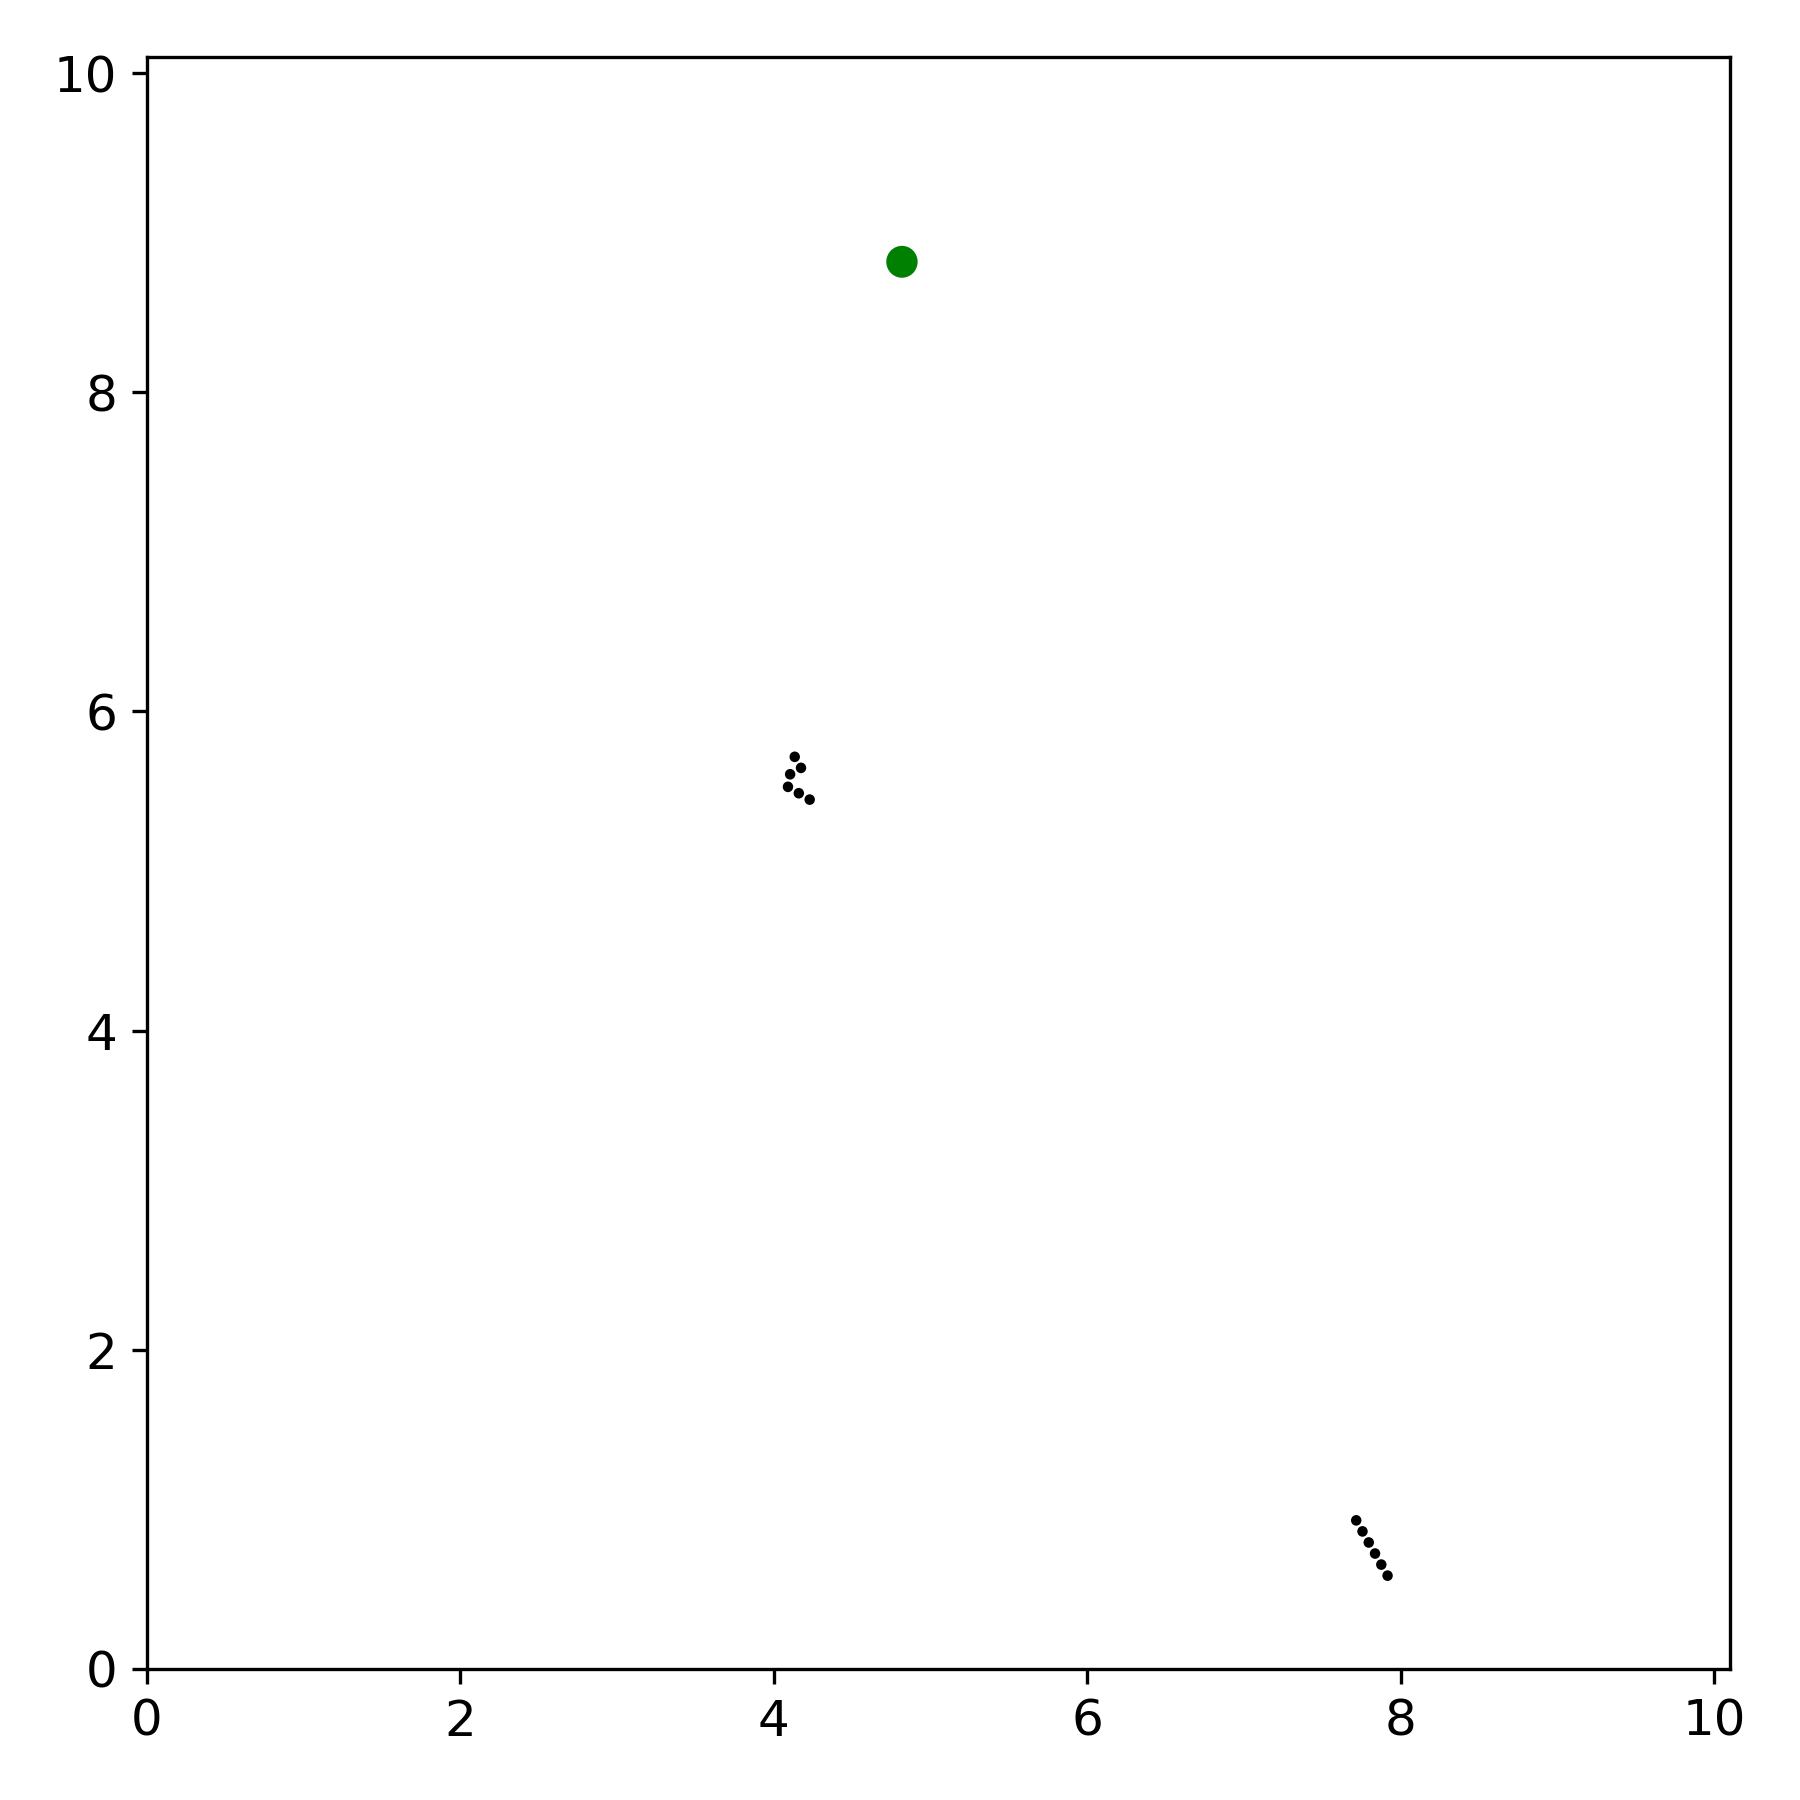
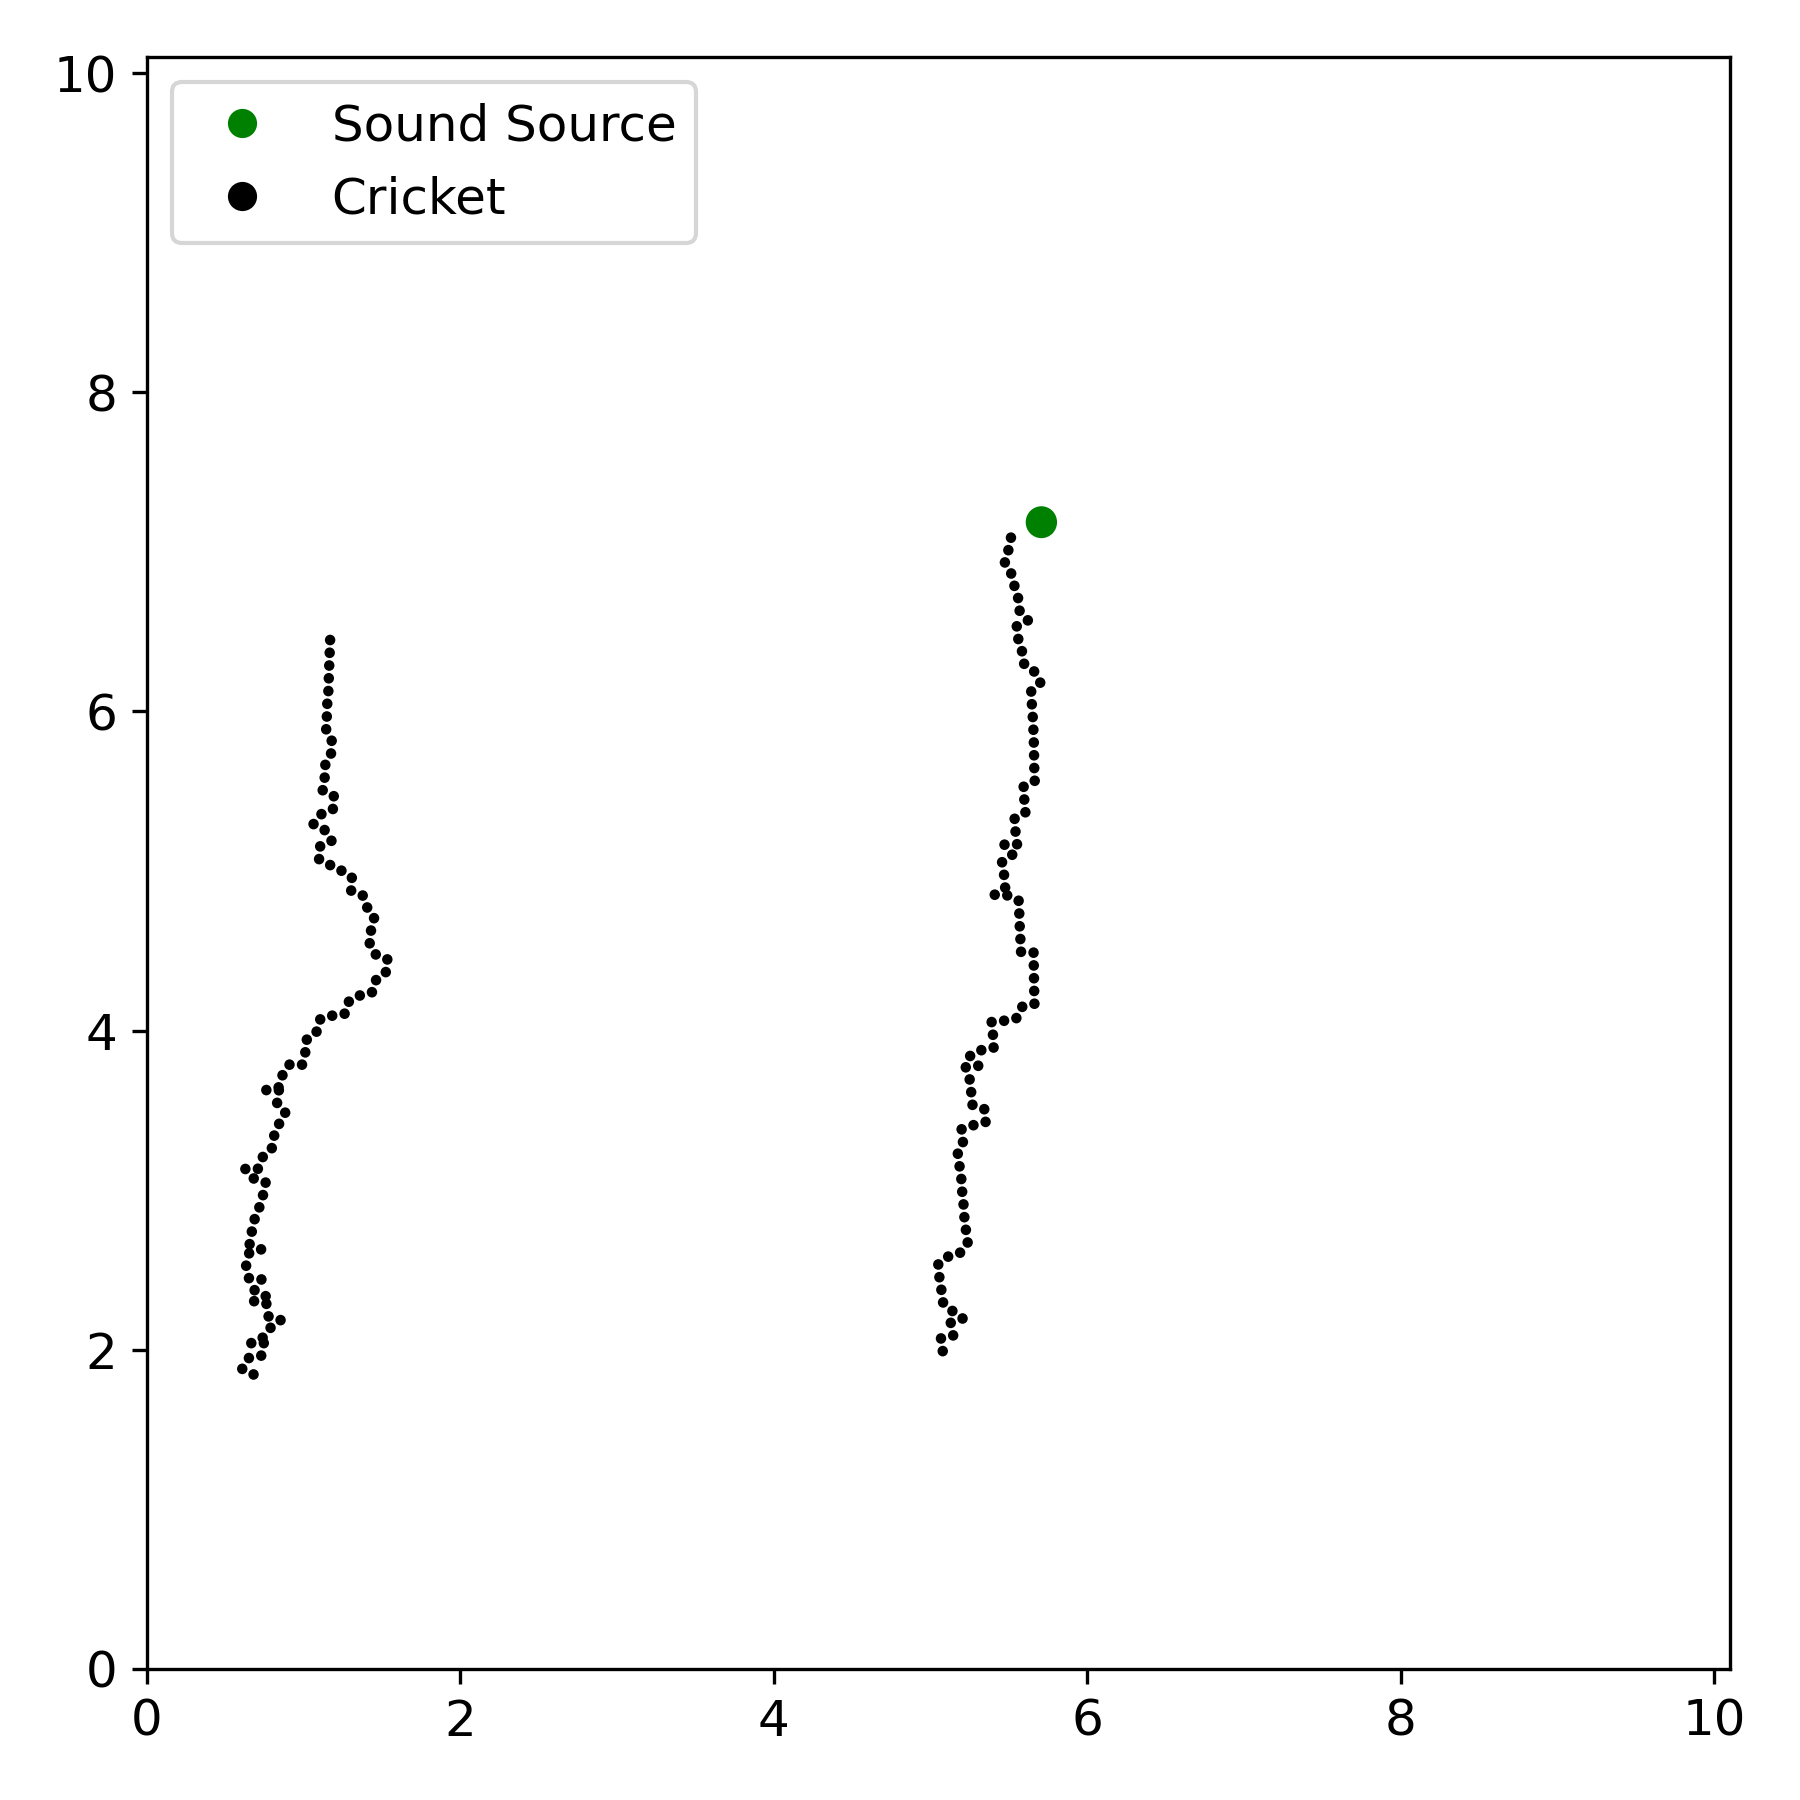
update: add cricket race data

diff --git a/cricket_lib/agent.py b/cricket_lib/agent.py
@@ -76,16 +76,7 @@ class CricketAgent:
         direction = self.sense(self.position, room_dim, sound_sources, signal)
         x_align = self.position[0] + 0.08 * np.cos(direction) * self.speed
         y_align = self.position[1] + 0.08 * np.sin(direction) * self.speed
-
-        if x_align < 0:
-            x_align = 0
-        if y_align < 0:
-            y_align = 0
-        elif y_align > room_dim[1] - 0.1:
-            y_align = room_dim[1]
-
         self.position = [x_align, y_align, 0]
-
         self.check_mate(sound_sources)
 
     def get_position(self) -> list:
@@ -109,18 +100,18 @@ class CricketAgent:
             bool: True if the agent has reached the sound source, False otherwise
         """
 
-        # If the agent is 0.3 units away from any sound source, then the agent has reached the sound source
+        # If the agent is 0.2 units away from any sound source, then the agent has reached the sound source
         for source in sound_sources:
-            distance = math.sqrt(
-                (source[0] - self.position[0]) ** 2
-                + (source[1] - self.position[1]) ** 2
-            )
-            if distance < 0.2:
+        if (source[0]-0.2 < self.position[0] < source[0]+0.2 and source[1]-0.2 < self.position[1] < source[1]+0.2):
                 self.mate = True
                 return self.mate
 
         # Or if the agent has reached the top of the room
-        if self.position[1] >= self.available_space[0]:
+        if self.position[0] < 0.1 or self.position[0] > self.available_space[0] - 0.1:
+            self.mate = True
+            return self.mate
+
+        if self.position[1] < 0.1 or self.position[1] > self.available_space[1] - 0.1:
             self.mate = True
             return self.mate
 

diff --git a/cricket_lib/environment.py b/cricket_lib/environment.py
@@ -65,25 +65,3 @@ class CricketEnvironment:
         """
 
         return [source.get_position() for source in self.sources]
-
-    def check_one_agent_under_source(self) -> bool:
-        """
-        Check if one agent is under the source
-
-        Returns:
-            bool: True if one agent is under the source, False otherwise
-        """
-
-        # Find the lowest speaker
-        lowest_speaker = self.sources[0]
-        for source in self.sources:
-            if source.get_position()[1] < lowest_speaker.get_position()[1]:
-                lowest_speaker = source
-
-        # Check if one agent is under the source
-        for agent in self.agents:
-            if (
-                agent.get_position()[0] > lowest_speaker.get_position()[0] - 0.3
-                and agent.get_position()[0] < lowest_speaker.get_position()[0] + 0.3
-            ):
-                return True

diff --git a/cricket_lib/simulator.py b/cricket_lib/simulator.py
@@ -45,7 +45,6 @@ class CricketSimulation:
                 agent.check_mate(self.environment.get_source_locations())
                 for agent in self.environment.agents
             )
-            or self.environment.check_one_agent_under_source()
         ):
             # Close the figure
             plt.close(self.fig)
@@ -94,9 +93,6 @@ class CricketSimulation:
         # Save the png
         print(f"-------------- Saving the png at {self.png_path} --------------")
         self.fig.savefig(self.png_path, dpi=300)
-        # Save the gif
-        print(f"-------------- Saving the gif at {self.gif_path} --------------")
-        self.anim.save(self.gif_path, writer="imagemagick", fps=2)
 
     def setup_room(self):
         """
